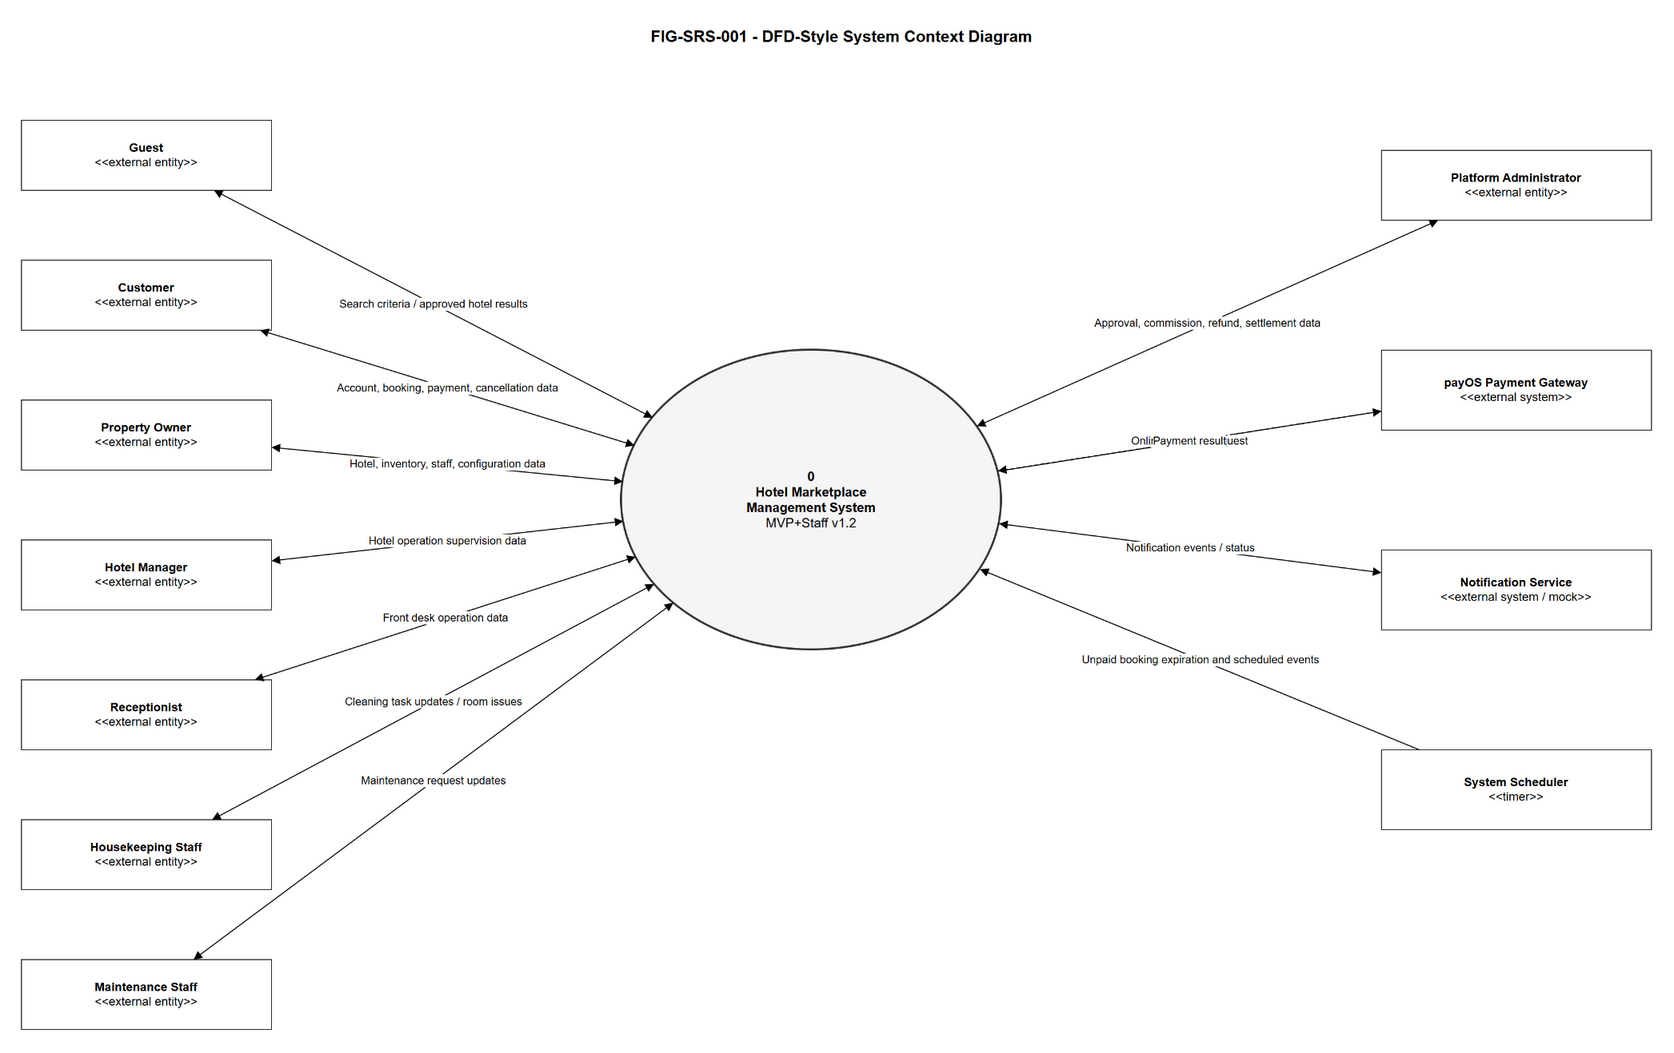
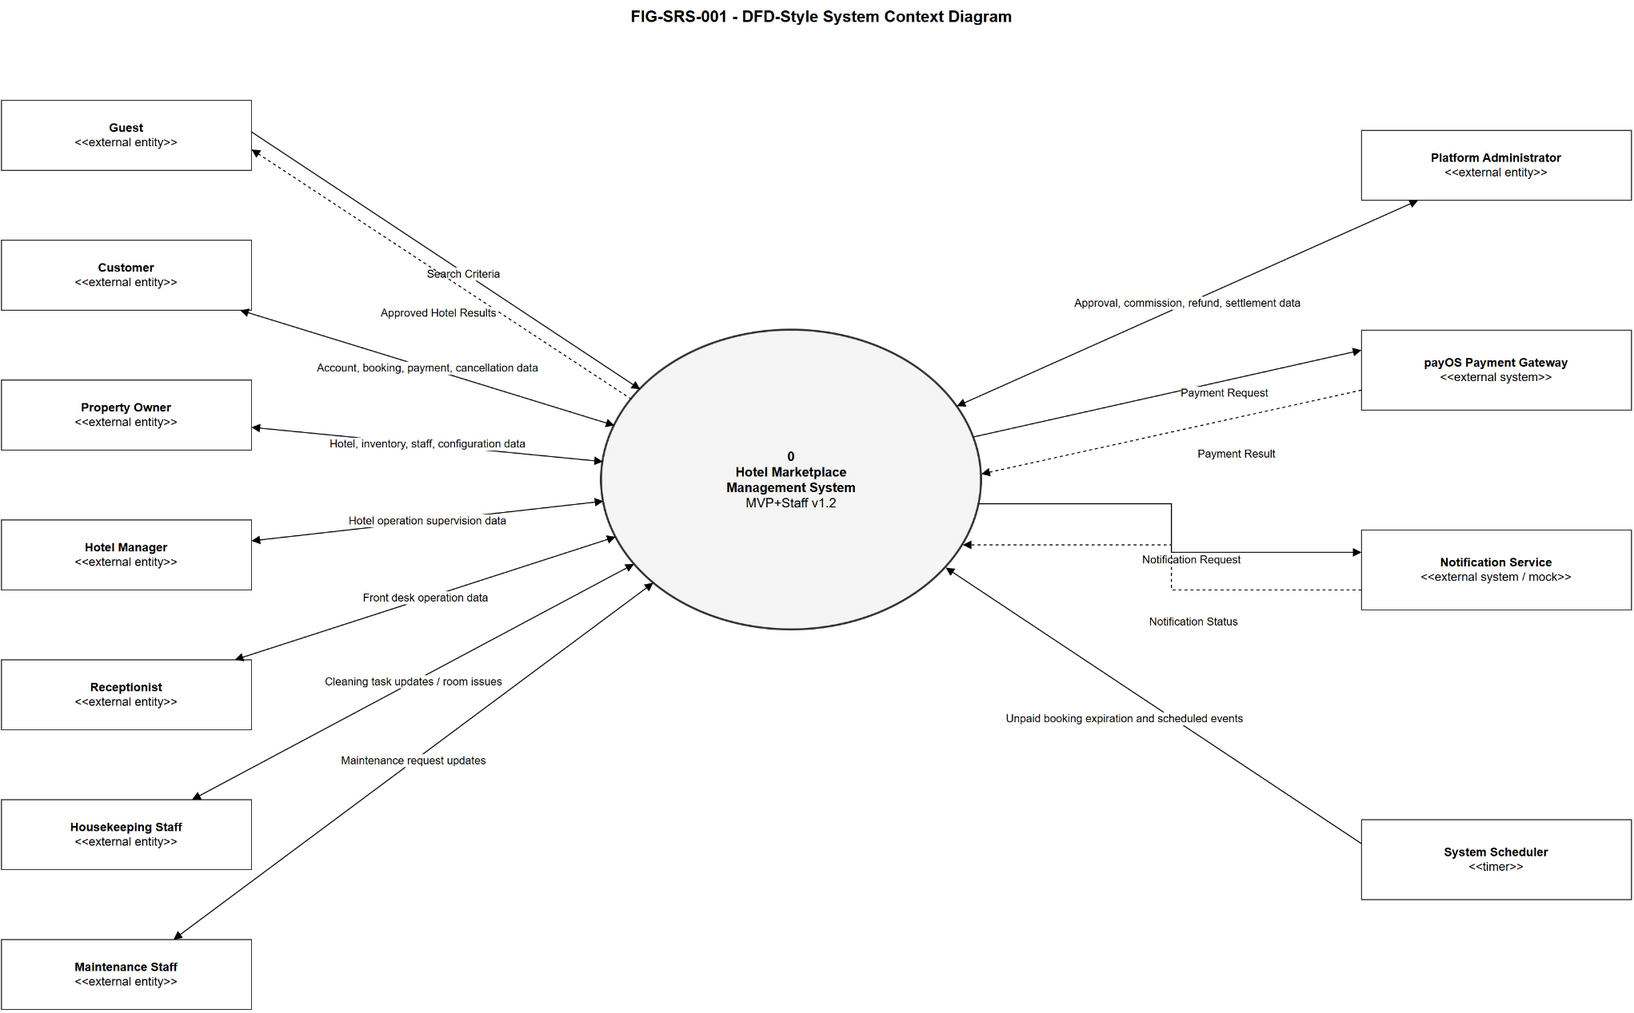
fix(diagrams): clarify context data flows

diff --git a/diagrams/notes/FIG-SRS-001_context_diagram.md b/diagrams/notes/FIG-SRS-001_context_diagram.md
@@ -9,7 +9,7 @@
 
 ## Explanation
 
-The system is shown as one DFD-style process circle. All human actors, external systems, and the timer are outside the system and shown as external entity rectangles. Data/control flows are labeled using the v1.2 context diagram delegation block.
+The system is shown as one DFD-style process circle. All human actors, external systems, and the timer are outside the system and shown as external entity rectangles. Data/control flows are labeled using the v1.2 context diagram delegation block. Exchanges that have different data in opposite directions are modeled as separate one-way flows, such as Search Criteria, Approved Hotel Results, Payment Request, Payment Result, Notification Request, and Notification Status.
 
 ## Validation checklist
 
@@ -21,3 +21,4 @@ The system is shown as one DFD-style process circle. All human actors, external 
 - [x] All external entities are outside the boundary.
 - [x] Human actors are drawn as external entity rectangles, not UML actor stick figures.
 - [x] Every arrow has a data/control flow label.
+- [x] Request/result and request/status exchanges use separate one-way data flows.